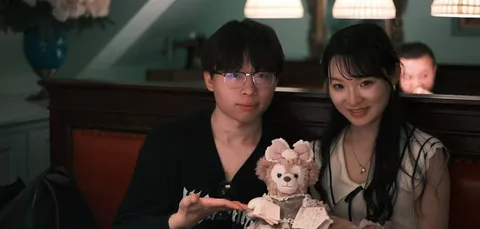
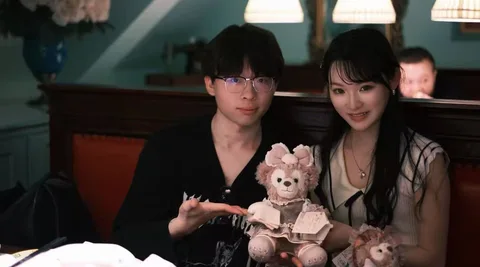
photo: swap to new homepage portrait, v=4

diff --git a/index.html b/index.html
@@ -14,7 +14,7 @@
   <meta property="og:url" content="https://wangxu.life/" />
   <meta property="og:image" content="https://wangxu.life/assets/optimized/homepage-2026-960.webp" />
[1 lines of base64/hex data omitted]
-  <link rel="preload" as="image" href="/assets/optimized/homepage-2026-480.webp" imagesrcset="/assets/optimized/homepage-2026-480.webp 480w, /assets/optimized/homepage-2026-960.webp 960w" imagesizes="(max-width: 900px) 280px, 420px" type="image/webp" fetchpriority="high" />
+  <link rel="preload" as="image" href="/assets/optimized/homepage-2026-480.webp" imagesrcset="/assets/optimized/homepage-2026-480.webp?v=4 480w, /assets/optimized/homepage-2026-960.webp?v=4 960w" imagesizes="(max-width: 900px) 280px, 420px" type="image/webp" fetchpriority="high" />
   <style>
     /* ============================================================
        Design tokens — identical to blog/colors_and_type.css
@@ -716,7 +716,7 @@
       <div class="hero-portrait-wrap">
         <div class="hero-portrait">
           <picture>
-            <source type="image/webp" srcset="/assets/optimized/homepage-2026-480.webp?v=3 480w, /assets/optimized/homepage-2026-960.webp?v=3 960w" sizes="(max-width: 900px) 280px, 420px" /><img src="/assets/optimized/homepage-2026-480.webp?v=3" alt="Xu Wang" width="480" height="270" loading="eager" fetchpriority="high" decoding="async" onerror="this.style.display='none'; this.parentElement.innerHTML='<div class=fallback>Xu</div>';" />
+            <source type="image/webp" srcset="/assets/optimized/homepage-2026-480.webp?v=4 480w, /assets/optimized/homepage-2026-960.webp?v=4 960w" sizes="(max-width: 900px) 280px, 420px" /><img src="/assets/optimized/homepage-2026-480.webp?v=4" alt="Xu Wang" width="480" height="270" loading="eager" fetchpriority="high" decoding="async" onerror="this.style.display='none'; this.parentElement.innerHTML='<div class=fallback>Xu</div>';" />
           </picture>
         </div>
       </div>
